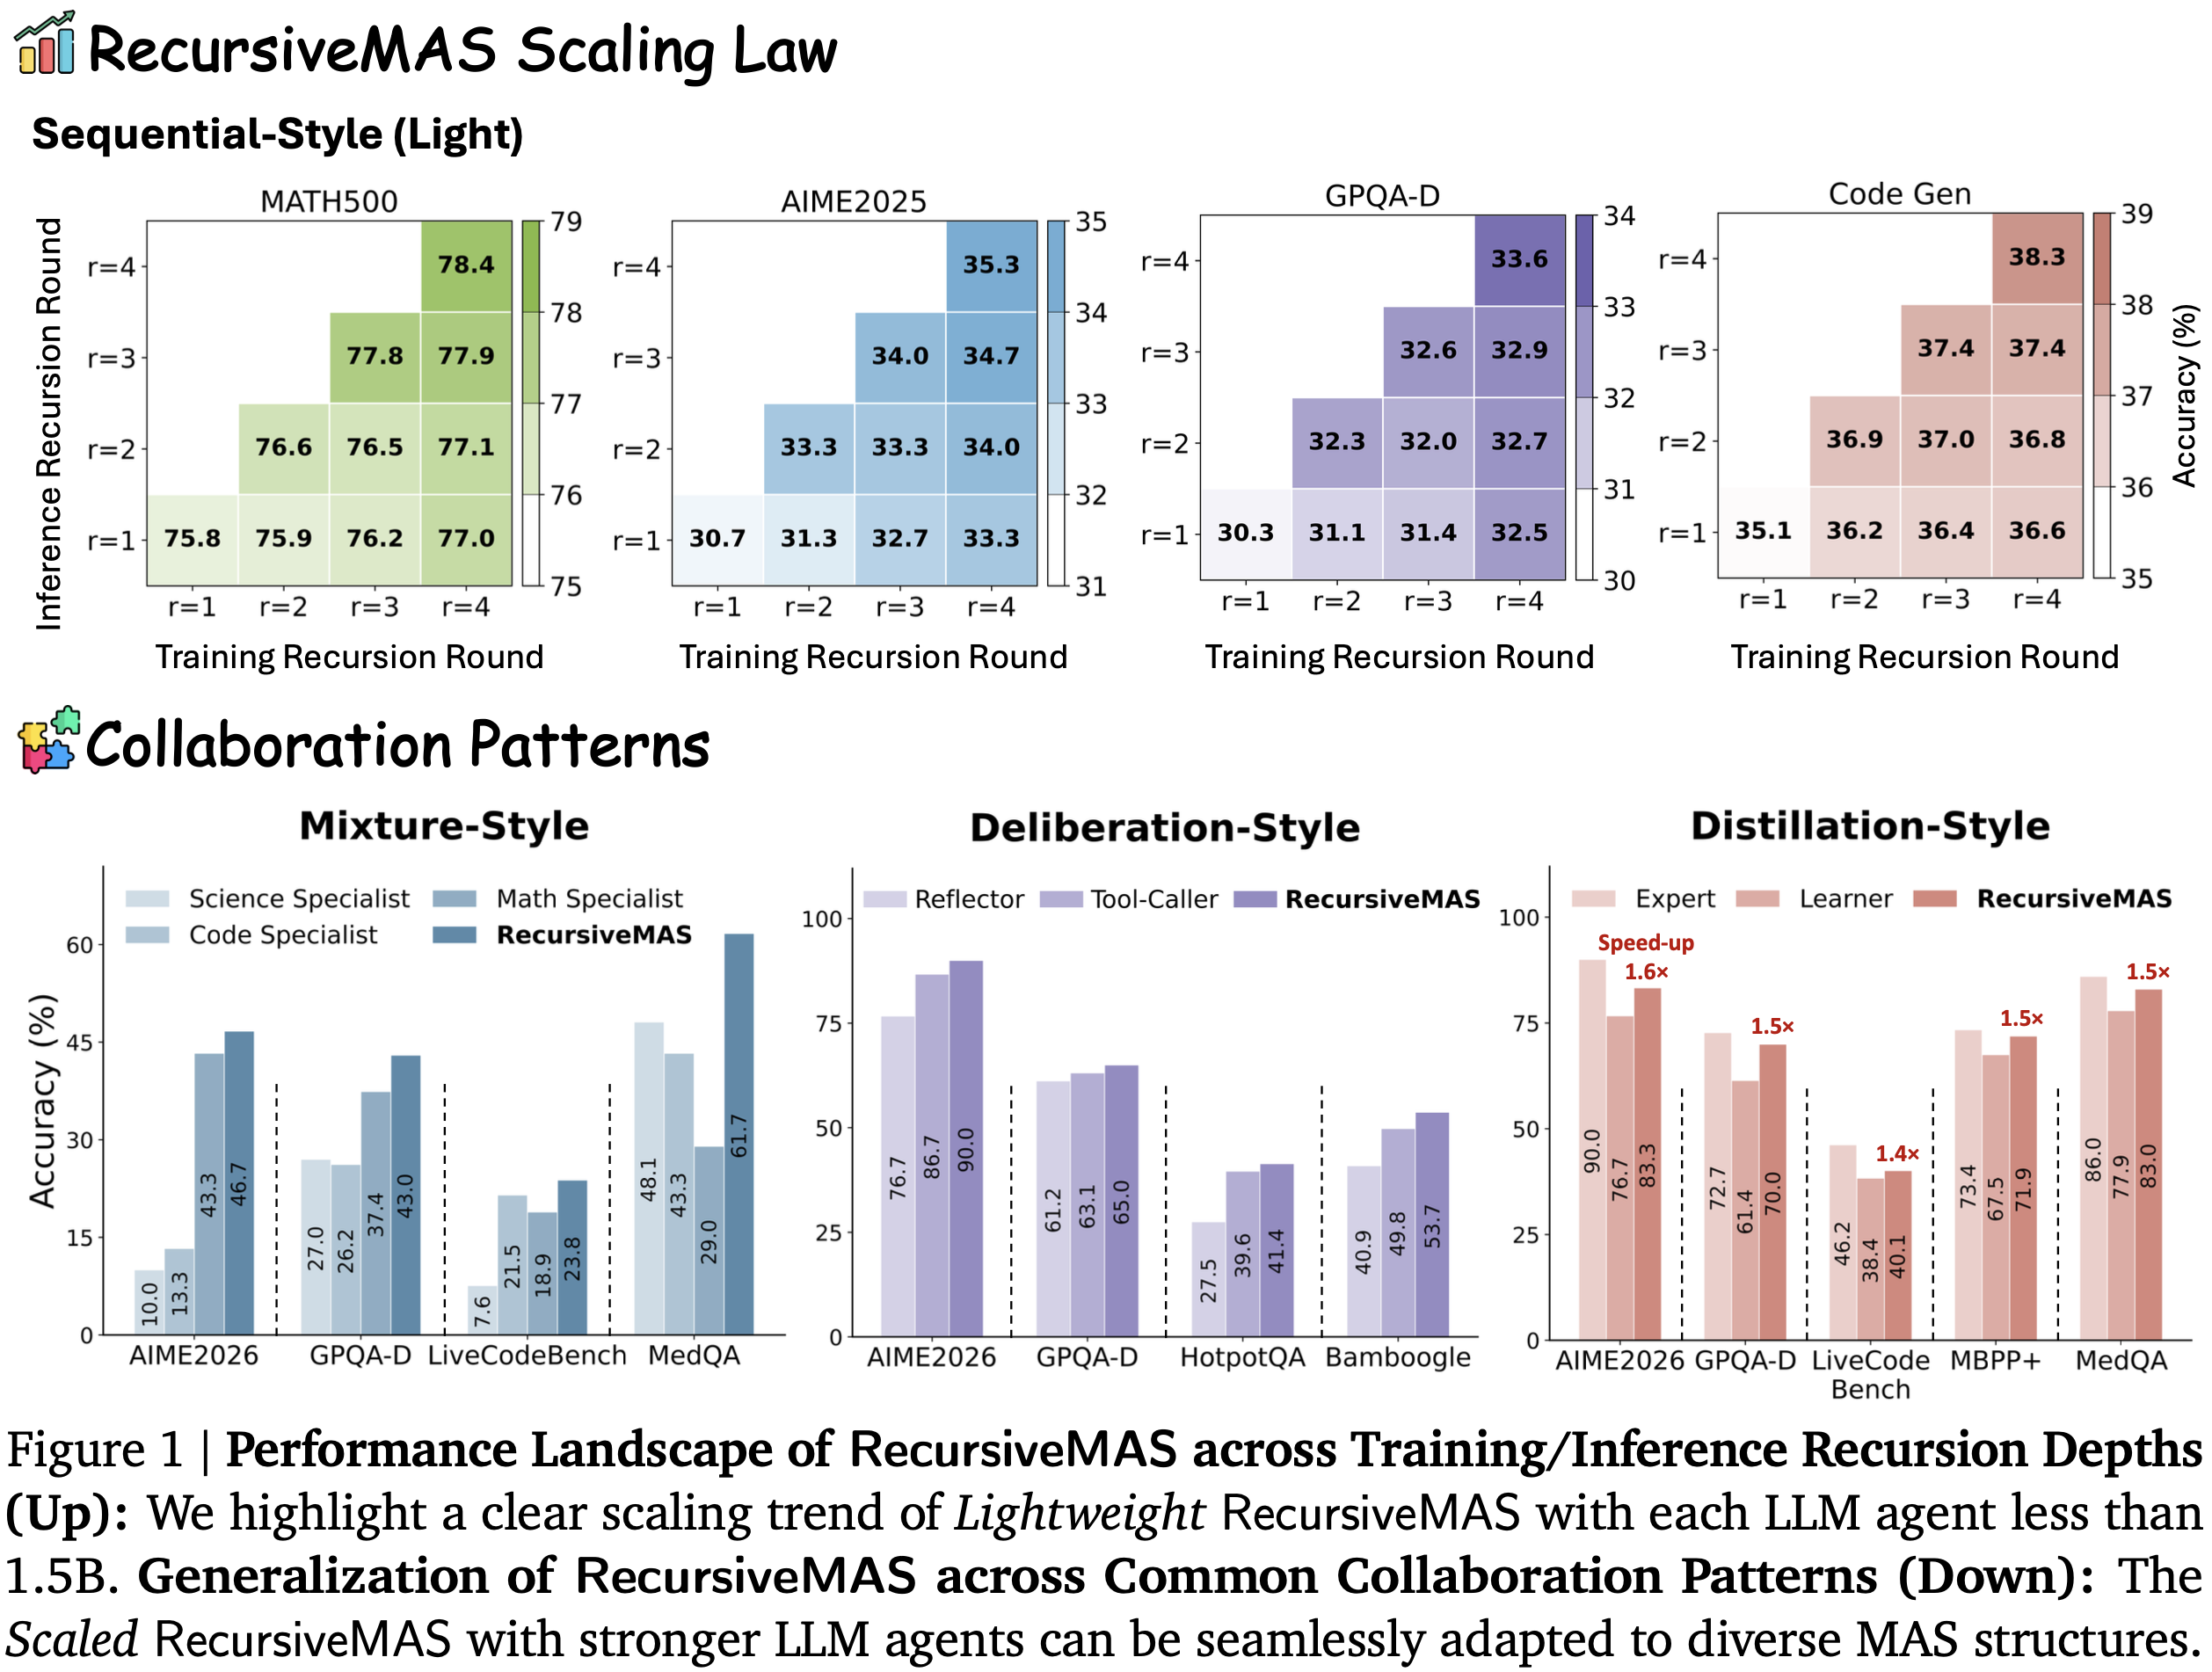
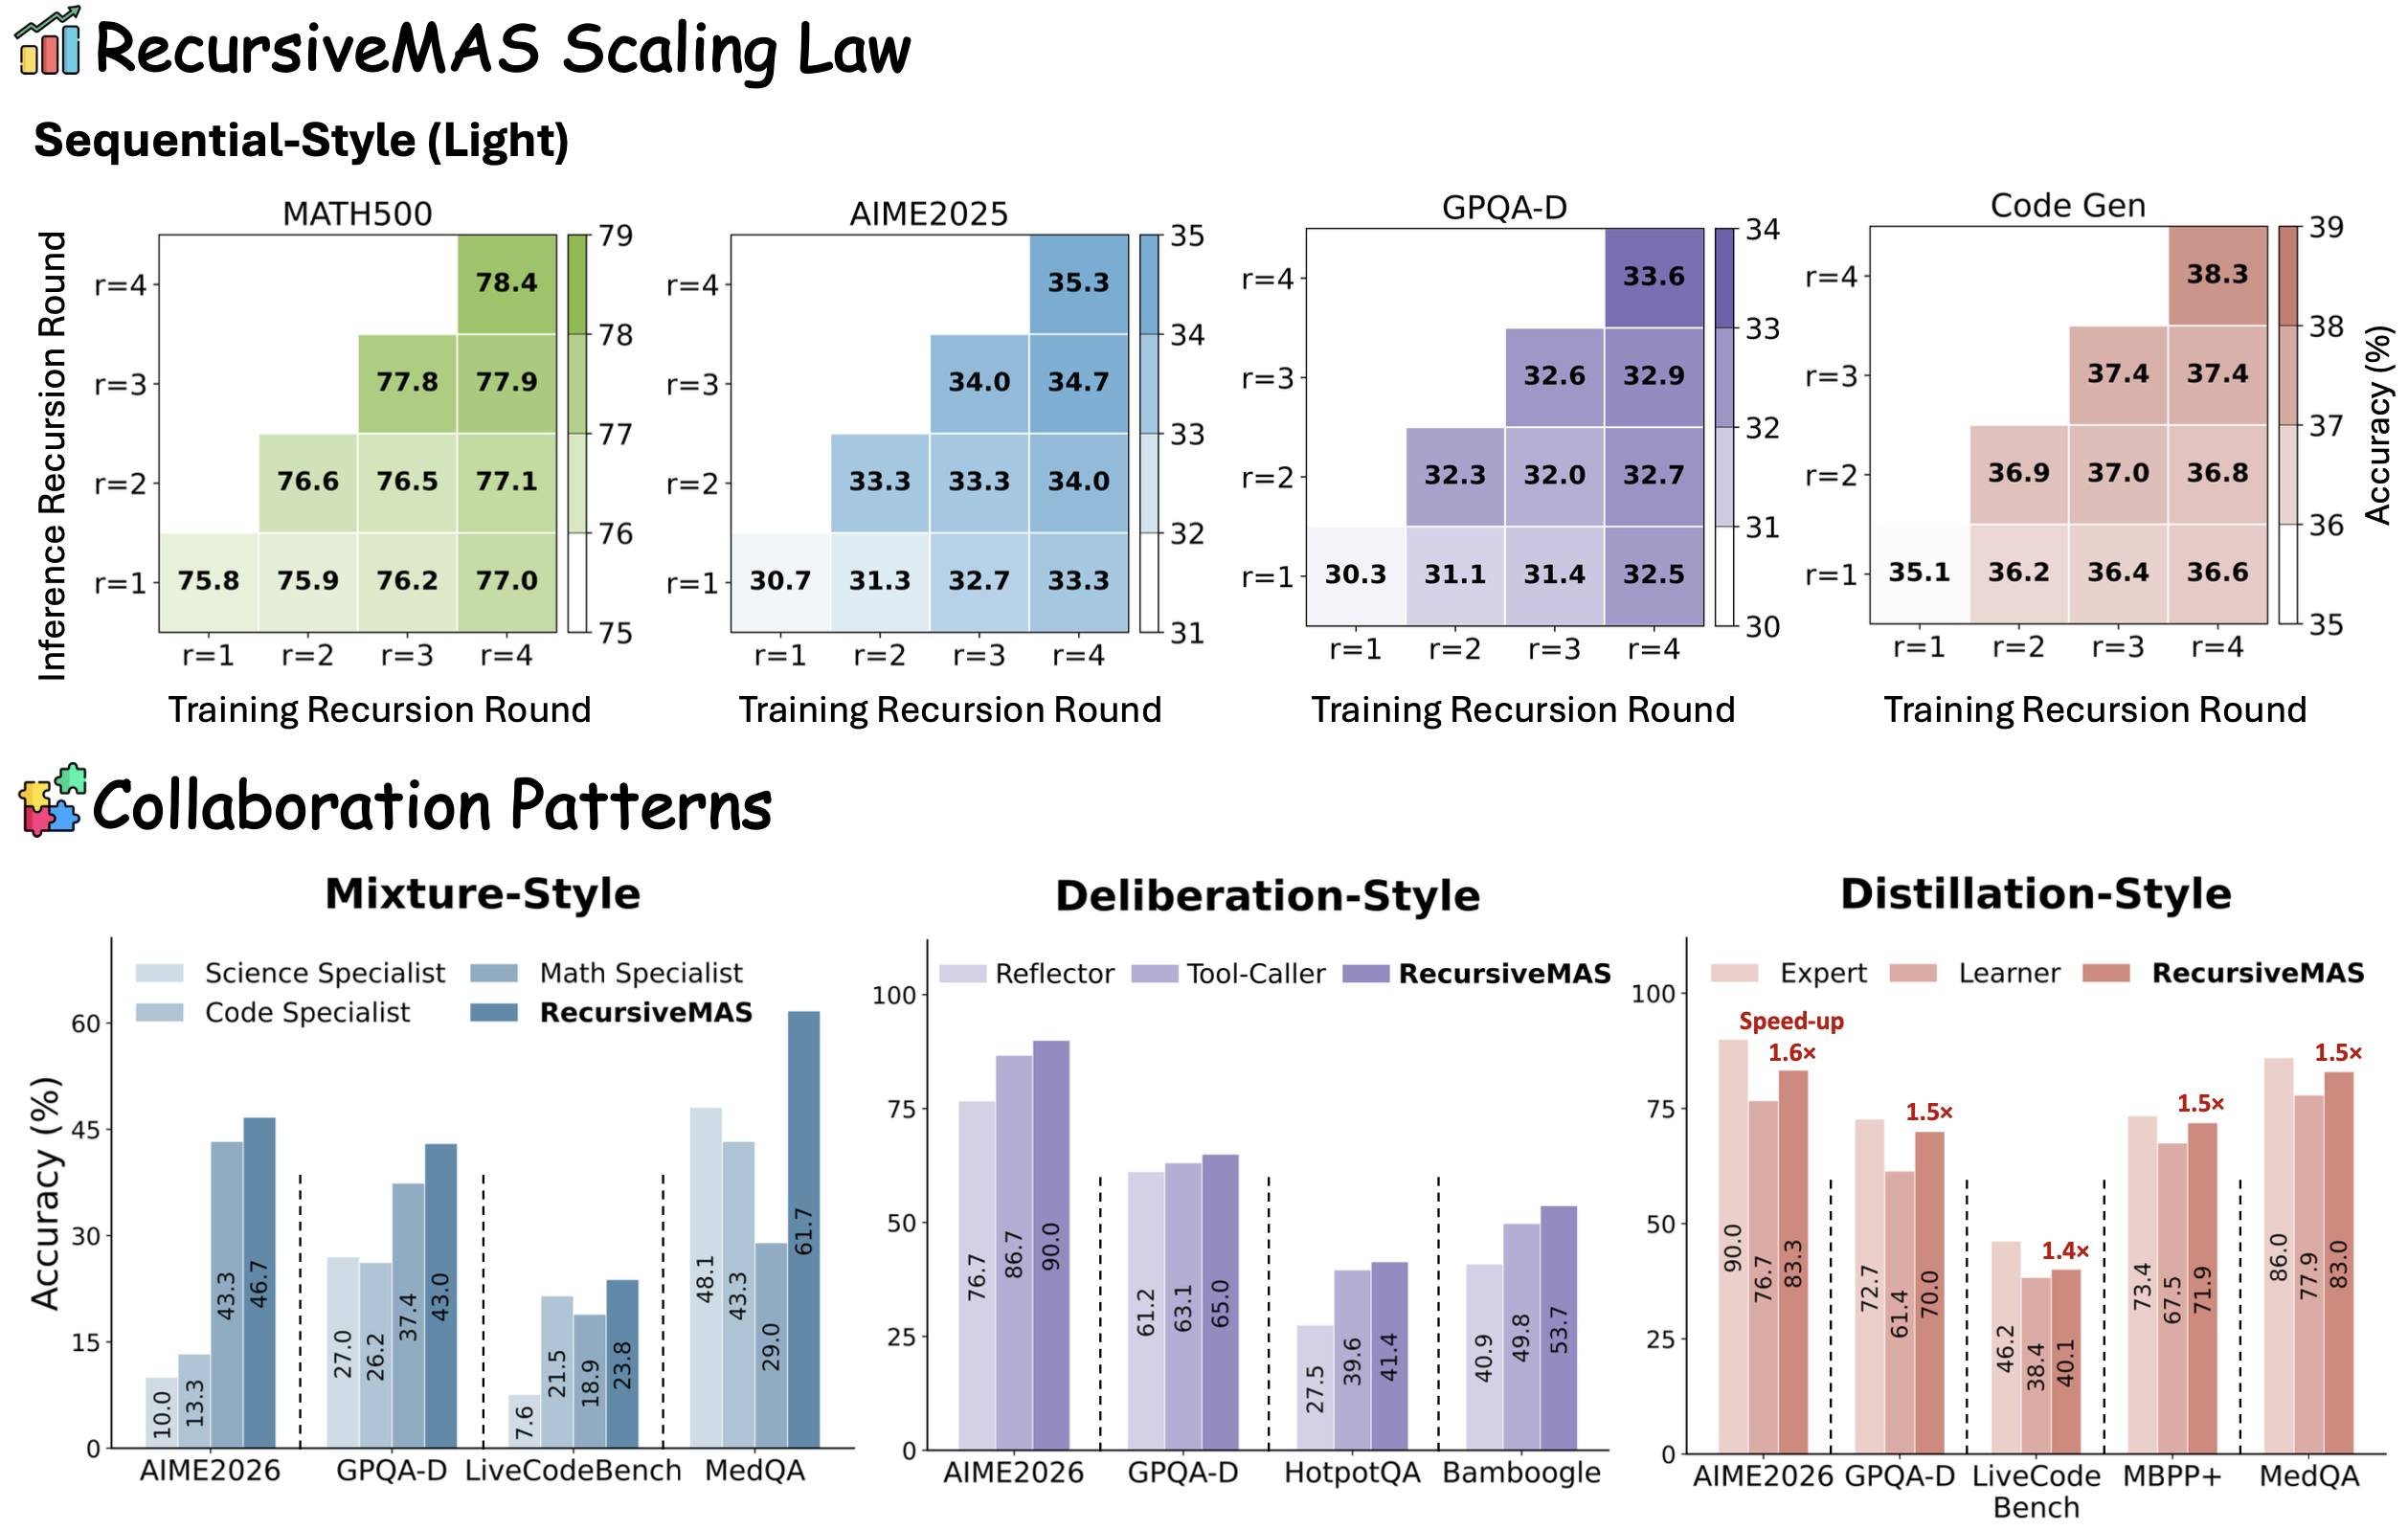
Update README

diff --git a/README.md b/README.md
@@ -73,9 +73,6 @@ Please set up a search API key (e.g., a Tavily API key) in `.env` file:
 TAVILY_API_KEY=your_tavily_api_key_here
 ```
 
----
-
-
 ## 💥 Quick Start
 
 ### 🤖 Load Model Checkpoints
@@ -193,8 +190,6 @@ The key components are:
 - `prompts.py`: stores prompts for different MAS collaboration styles.
 - `inference_utils/`: contains inference pipelines and evaluation utilities for different MAS structures.
 
----
-
 ### ⚙️ Running RecursiveMAS at Different Scales
 
 We provide Sequential-style RecursiveMAS under both lightweight and scaled settings.
@@ -208,7 +203,6 @@ python run.py --style sequential_light --batch_size 32 --temperature 0.6 --top_p
 ```bash
 python run.py --style sequential_scaled --batch_size 16 --temperature 0.6 --top_p 0.95 --dataset math500 --seed 42 --trust_remote_code 1 --device cuda
 ```
----
 
 ### 🧩 Exploring Various Collaboration Patterns
 
@@ -229,8 +223,6 @@ python run.py --style distillation --batch_size 16 --temperature 0.6 --top_p 0.9
 python run.py --style deliberation --batch_size 16 --temperature 0.6 --top_p 0.95 --dataset math500 --seed 42 --trust_remote_code 1 --device cuda
 ```
 
----
-
 ## 🙏 Acknowledgements
 
 This project is built upon the excellent open-source community. We sincerely thank the developers and maintainers of the following libraries and resources:
@@ -239,7 +231,6 @@ This project is built upon the excellent open-source community. We sincerely tha
 - [ARPO](https://github.com/RUC-NLPIR/ARPO) for providing useful references on agentic tool-use systems and efficient tool-calling workflows.
 - [TextGrad](https://github.com/zou-group/textgrad) for its pioneering framework on text-based optimization and natural-language feedback for compound agentic systems.
 
----
 <!-- 
 ## 🚀 Contributing
 